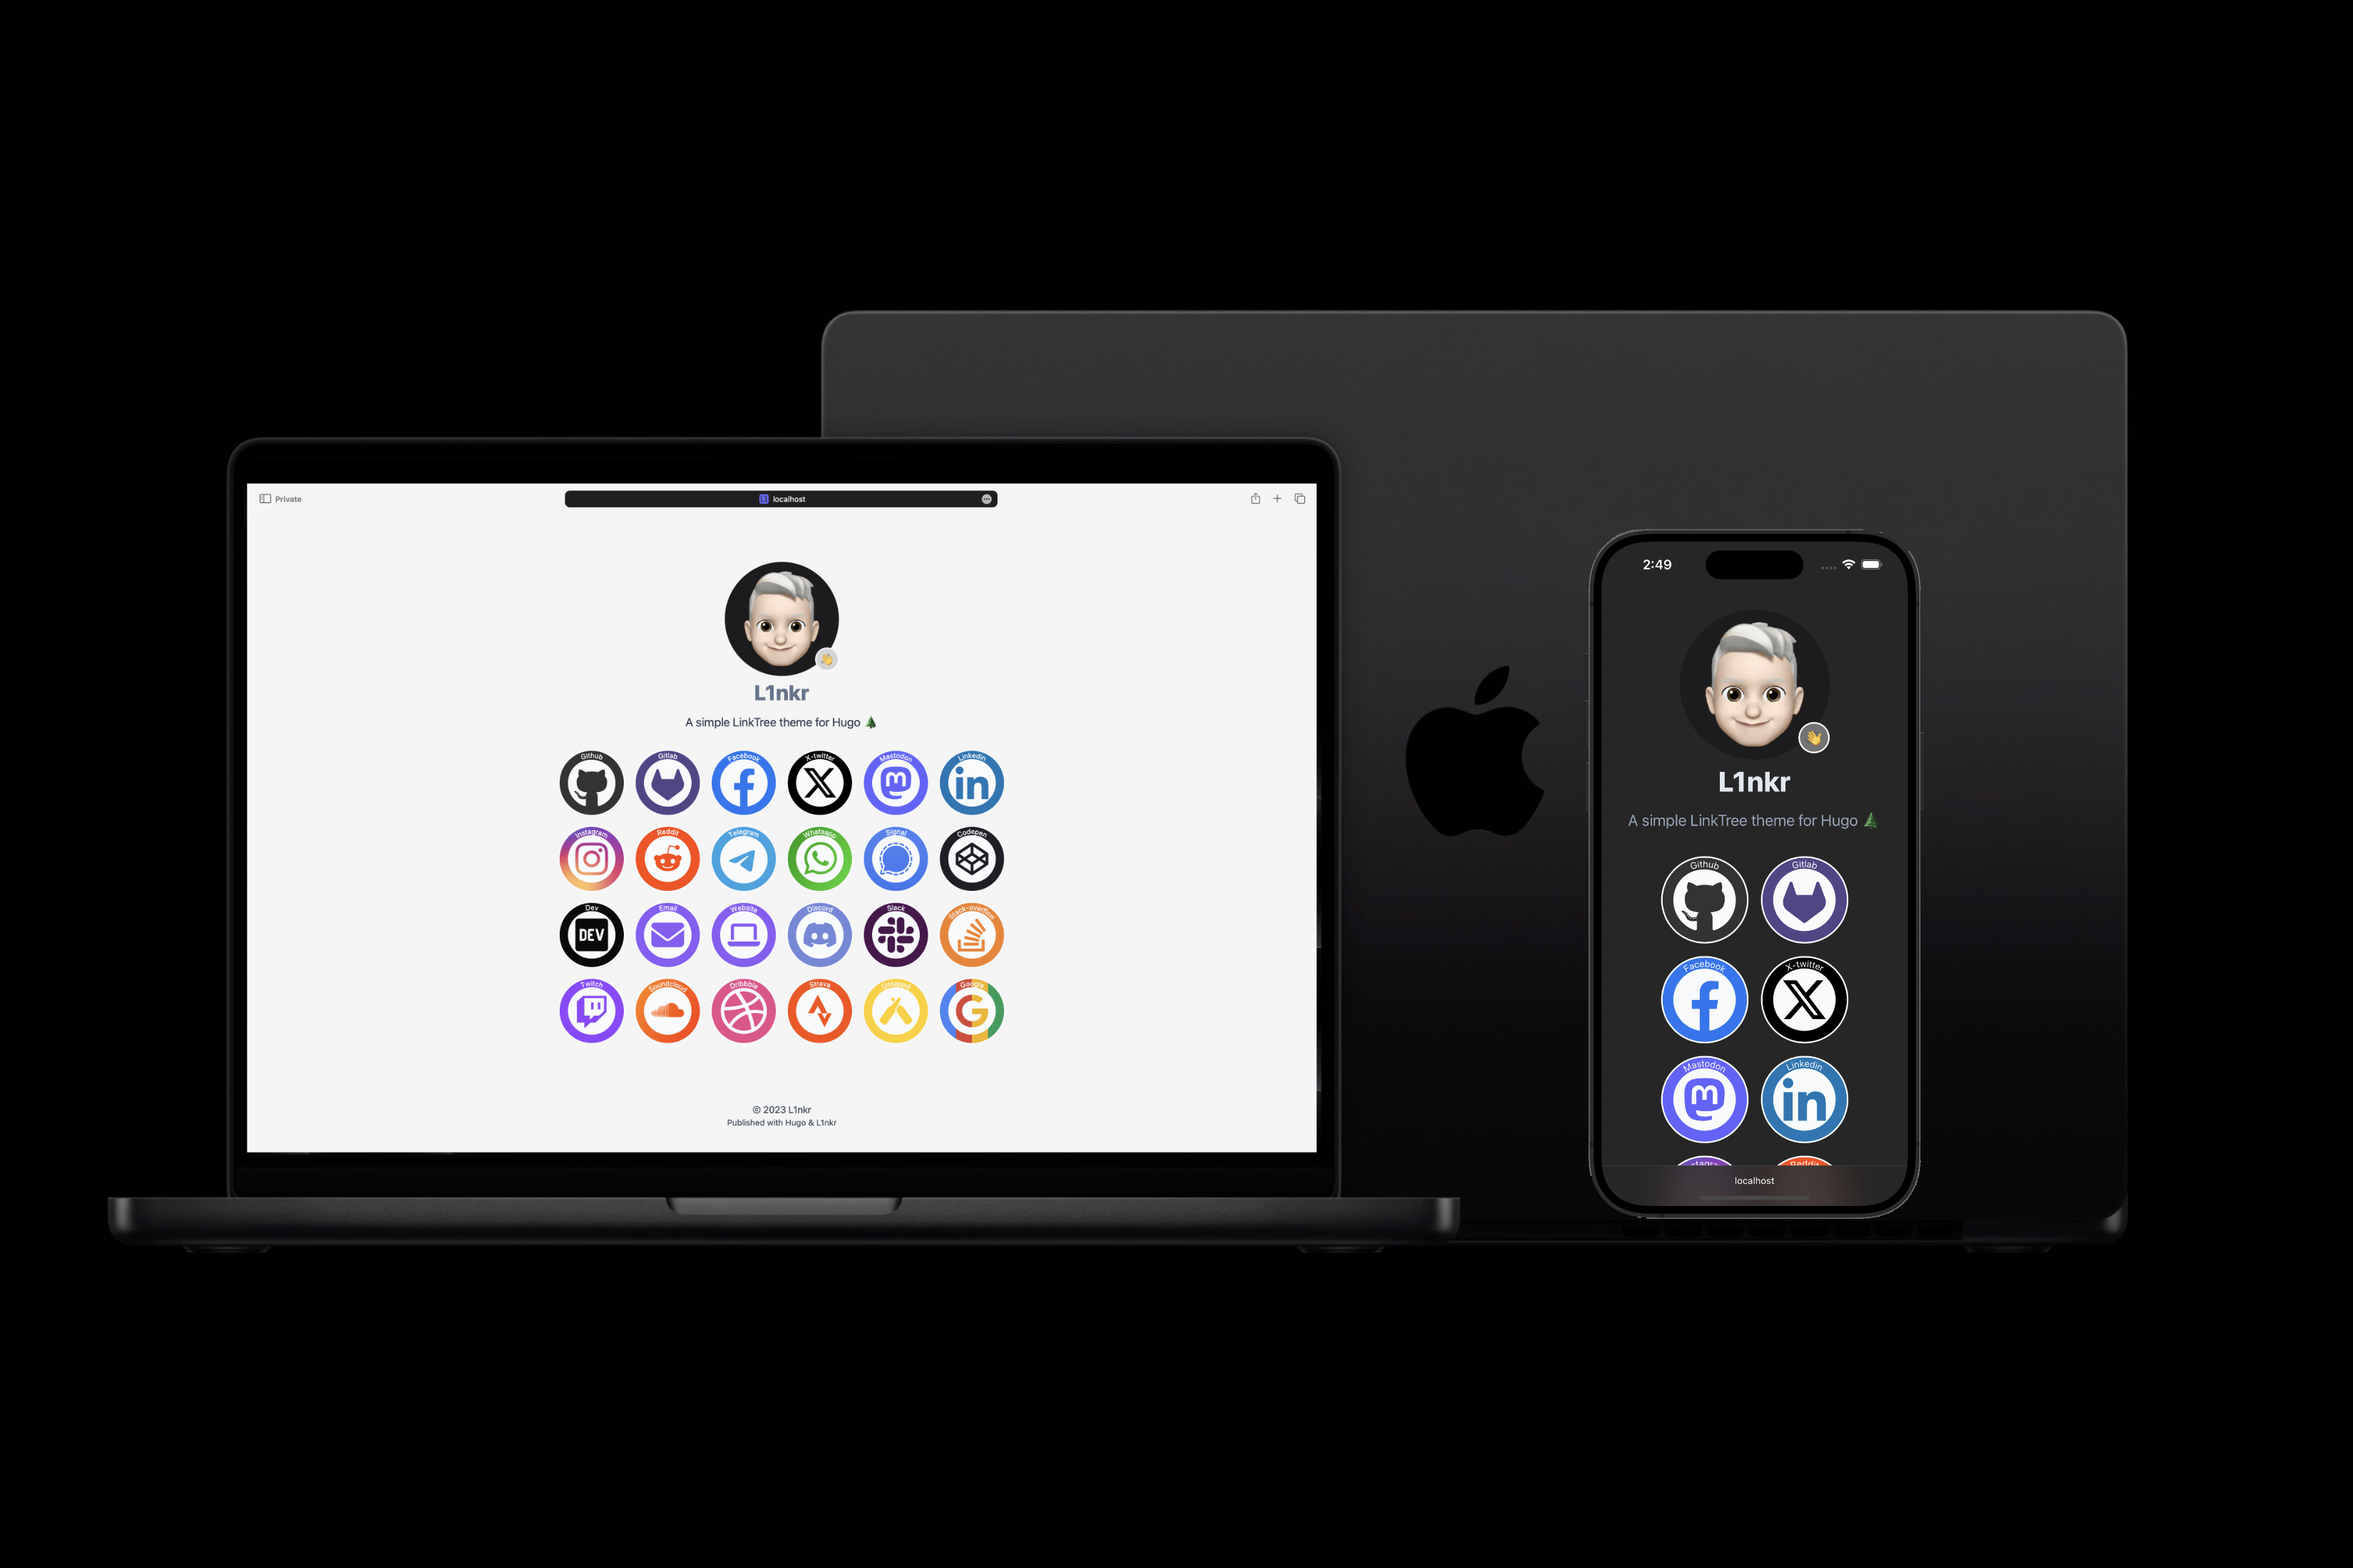
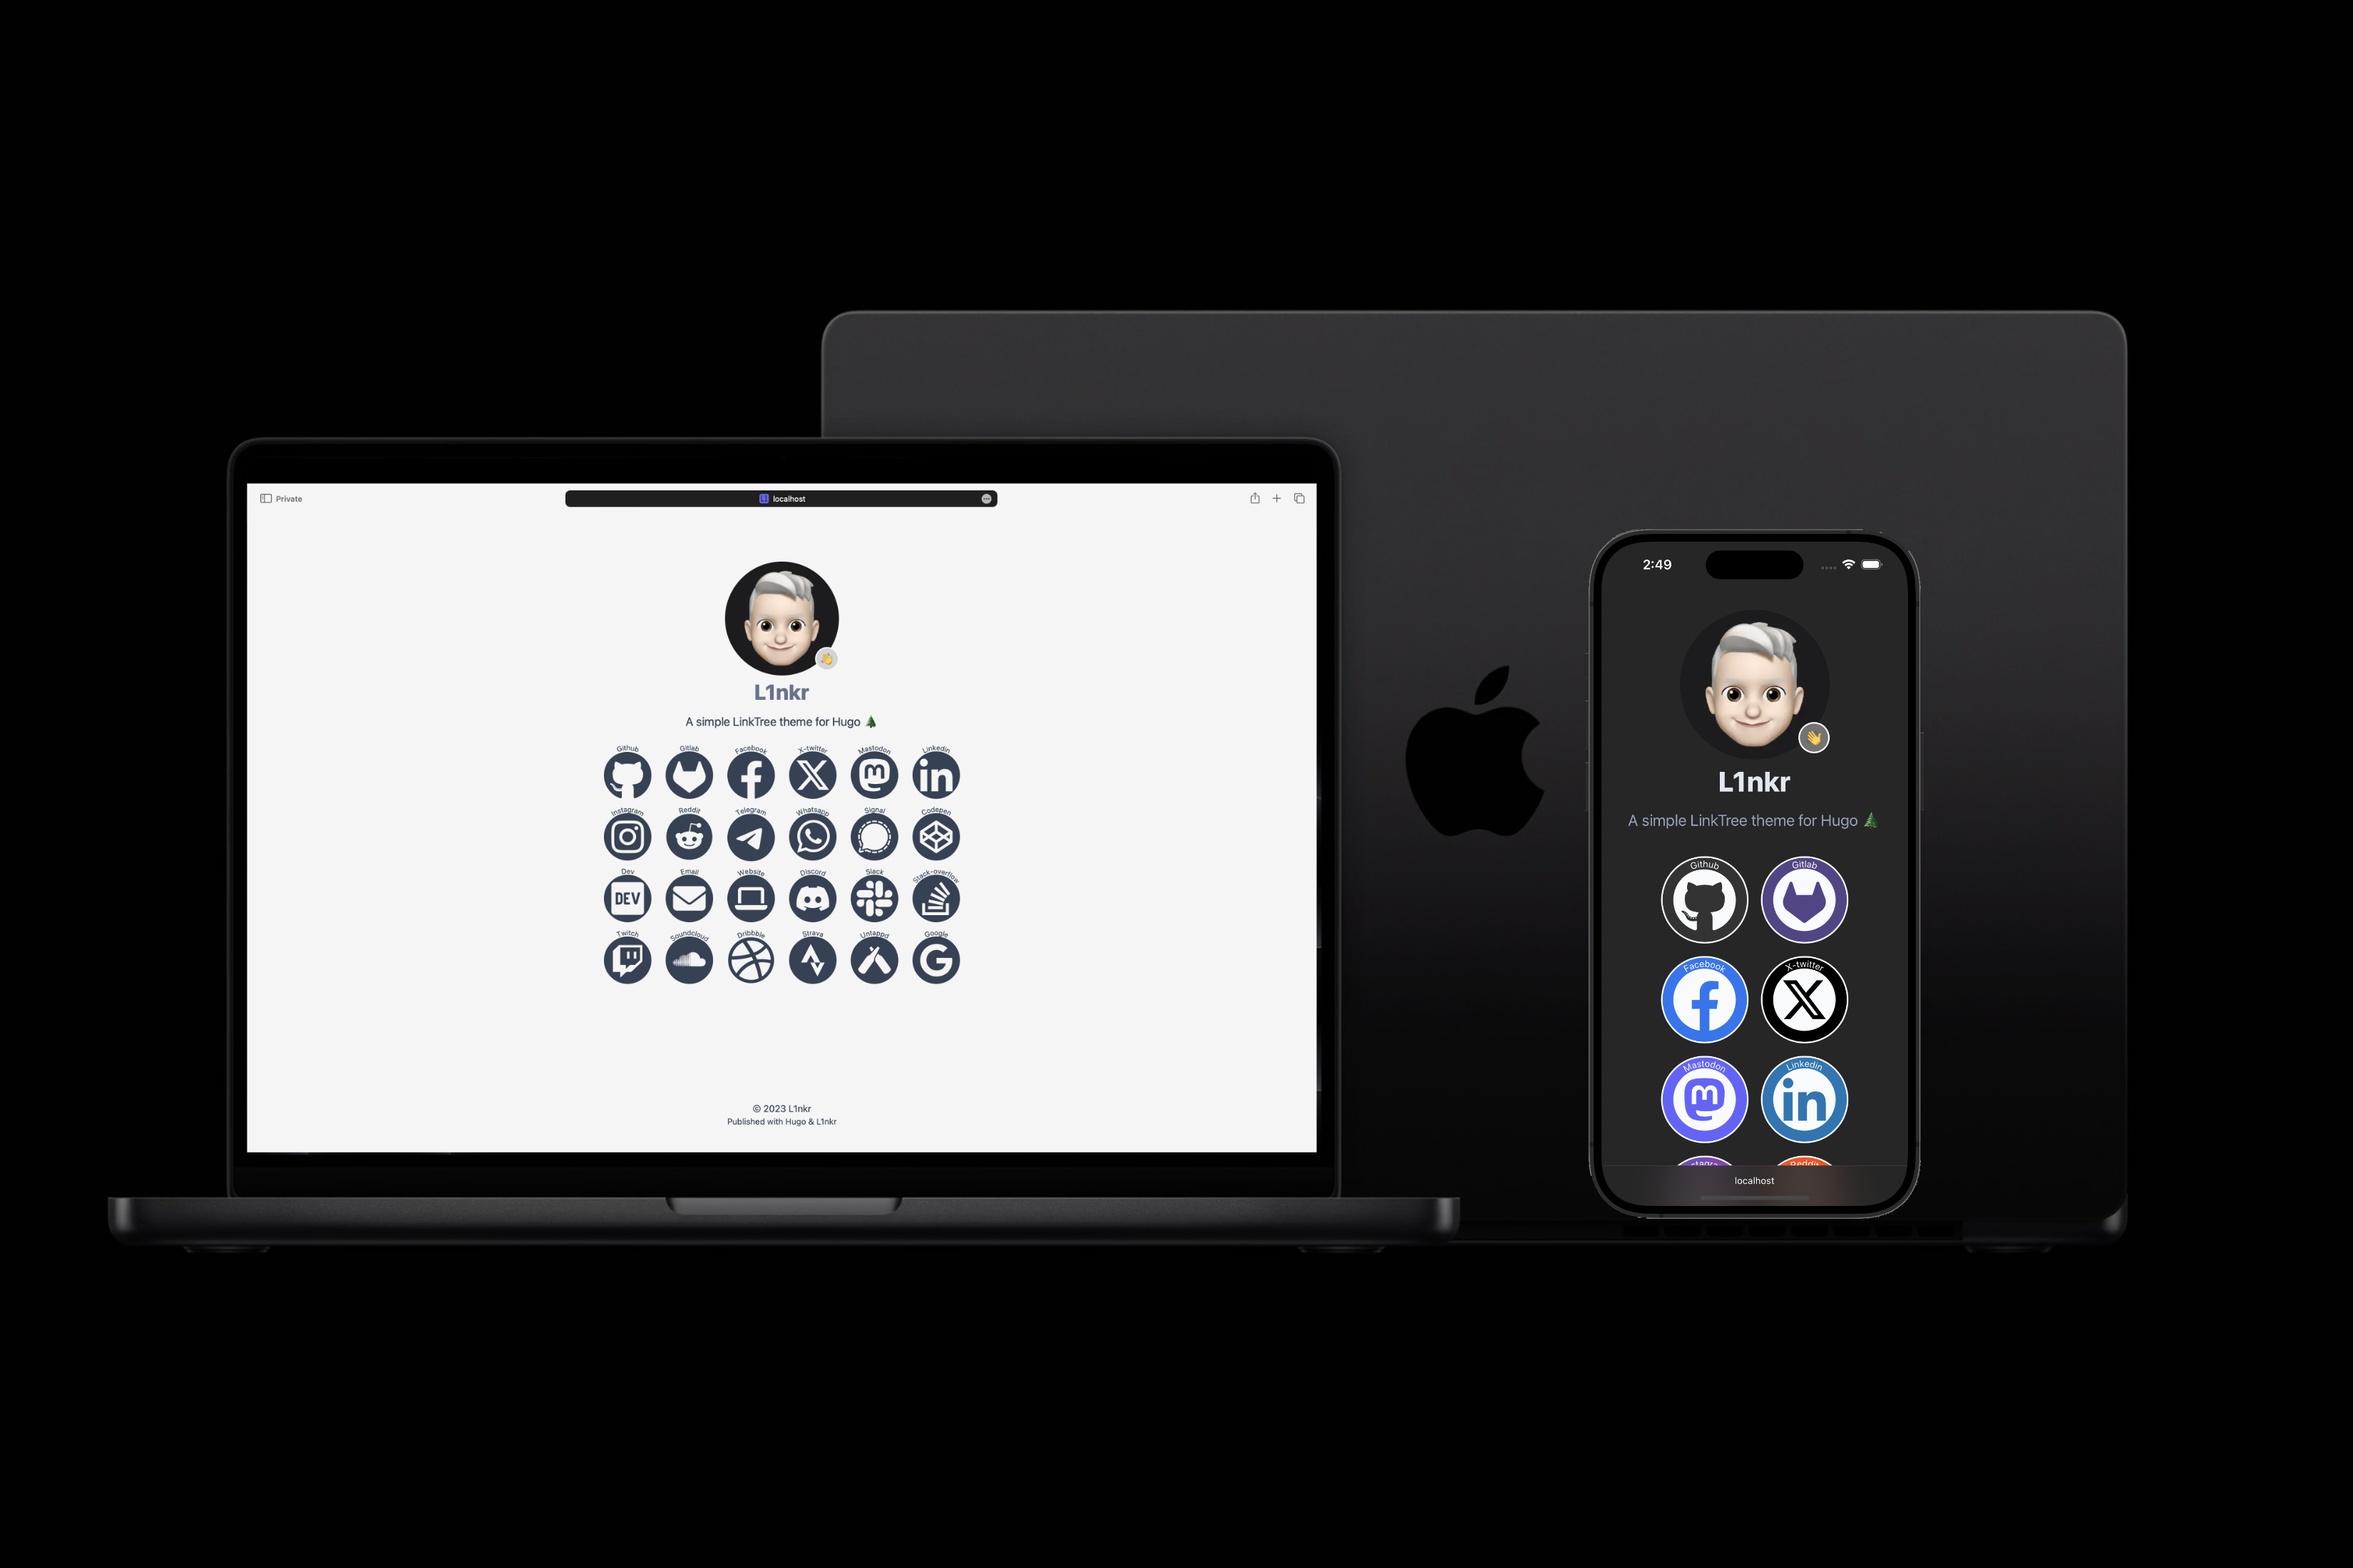
:bookmark: preparing release v1.8.0

Changed region(s): [[0.2185, 0.4327, 0.437, 0.68]]

diff --git a/assets/css/compiled/main.css b/assets/css/compiled/main.css
@@ -1,4 +1,4 @@
-/*! L1nkr v1.7.0| MIT License | https://github.com/Chrede88/L1nkr */
+/*! L1nkr v1.8.0| MIT License | https://github.com/Chrede88/L1nkr */
 
 /*! tailwindcss v3.3.5 | MIT License | https://tailwindcss.com */
 

diff --git a/assets/css/main.css b/assets/css/main.css
@@ -1,4 +1,4 @@
-/*! L1nkr v1.7.0| MIT License | https://github.com/Chrede88/L1nkr */
+/*! L1nkr v1.8.0| MIT License | https://github.com/Chrede88/L1nkr */
 
 @tailwind base;
 @tailwind components;

diff --git a/CHANGELOG.md b/CHANGELOG.md
@@ -6,8 +6,18 @@ The format is based on [Keep a Changelog](https://keepachangelog.com/en/1.1.0/).
 
 ## [Unreleased]
 
+## [1.8.0] - 2023-11-25
+
+### Added
+- New monochromatic color scheme option. Set `monochrome: true` in `params.yaml`.
+
+### Breaking Change
+
+- Please note the breaking change in `v1.7.0` if you're updating from an older version!
+
 ## [1.7.0] - 2023-11-20
-- Breaking change: Module name changed!
+### Breaking Change
+- Module name changed!
   Name changed from `github.com/Chrede88/L1nkr` to `github.com/chrede88/L1nkr`. Update the module name in your site config: `./config/_default/hugo.yaml` and in `go.mod`.
 
 ## [1.6.0] - 2023-11-11
@@ -102,7 +112,8 @@ The format is based on [Keep a Changelog](https://keepachangelog.com/en/1.1.0/).
 - Emoji support for a fun design
 - More than 30 supported brand links
 
-[unreleased]: https://github.com/Chrede88/L1nkr/compare/v1.7.0...HEAD
+[unreleased]: https://github.com/Chrede88/L1nkr/compare/v1.8.0...HEAD
+[1.8.0]: https://github.com/Chrede88/L1nkr/compare/v1.7.0...v1.8.0
 [1.7.0]: https://github.com/Chrede88/L1nkr/compare/v1.6.0...v1.7.0
 [1.6.0]: https://github.com/Chrede88/L1nkr/compare/v1.5.3...v1.6.0
 [1.5.3]: https://github.com/Chrede88/L1nkr/compare/v1.5.2...v1.5.3
